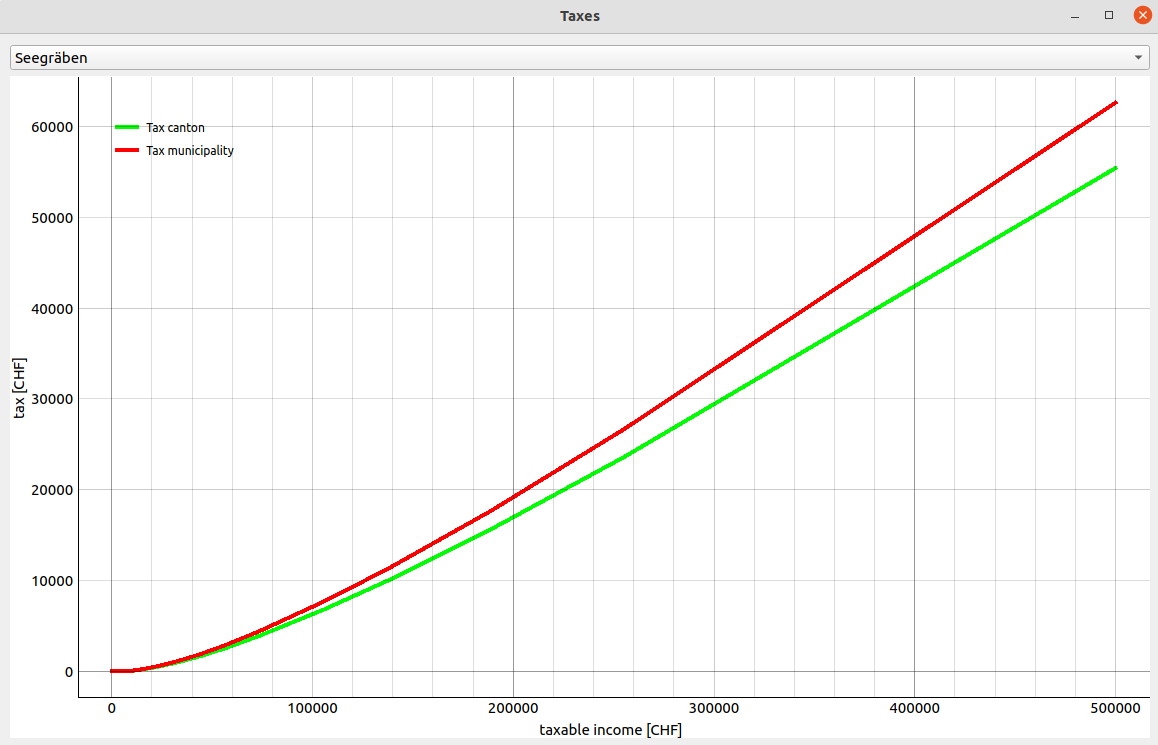
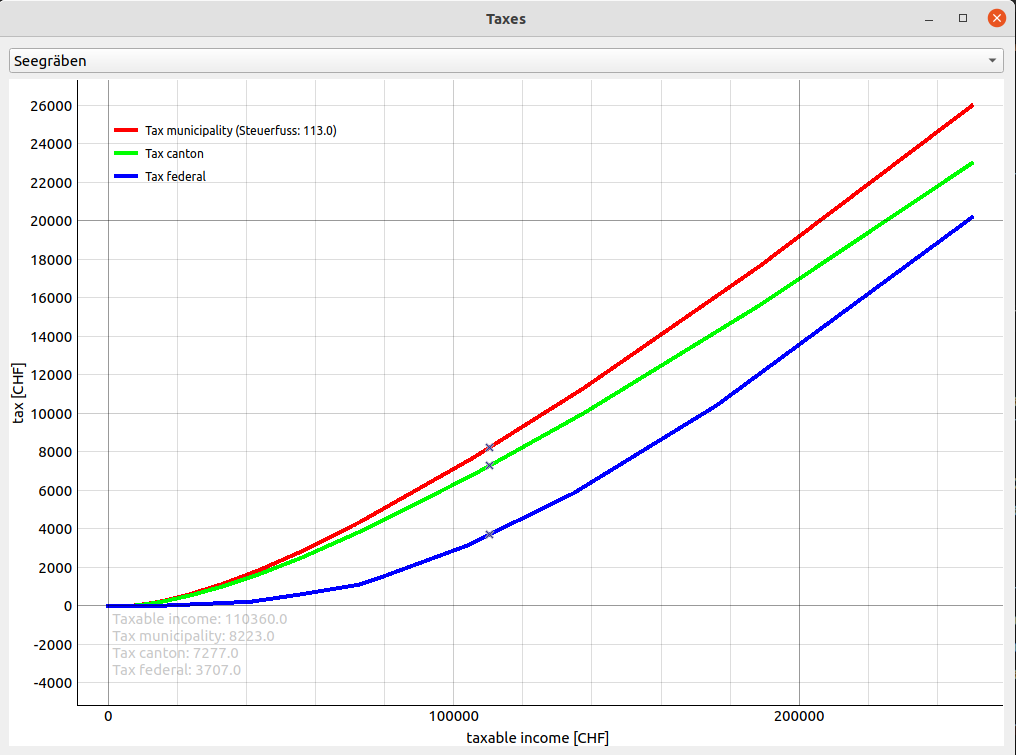
Add labels with numbers

diff --git a/tax/withholding.py b/tax/withholding.py
@@ -38,7 +38,7 @@ class TaxWithholder:
         self.marital_status = marital_status
         self.plot_canton_taxes = None
         self.plot_municipality_taxes = None
-        self.incomes_samples = pd.Series(np.linspace(0, 5 * 1e5, 1000))
+        self.incomes_samples = pd.Series(np.linspace(0, 2.5 * 1e5, 1000))
         self.load_tax_rates()
         self.load_steuerfuss()
         self.taxes_canton = self.compute_taxes(
@@ -93,7 +93,7 @@ class TaxWithholder:
         self.municipality = value
         self.plotting_app.plot_widget.clear()
         self.plotting_app.plot_mouse_points = None
-        self.plotting_app.plot_widget.addItem(self.plotting_app.cursorlabel)
+        self.plotting_app.plot_widget.addItem(self.plotting_app.cursor_label)
         self.plotting_app.plot_widget.plotItem.legend.items = []
         self.steuerfuss_municipality = self.steuerfuss_dict.get(self.municipality)
         self.taxes_municipality = self.taxes_canton * self.steuerfuss_municipality / 100
@@ -126,6 +126,12 @@ class TaxWithholder:
                 y_tax_municipality,
                 y_tax_federal,
             ]
+            self.plotting_app.cursor_label_text = (
+                f"Taxable income: {np.round(x_tax_canton)}\n"
+                + f"Tax municipality: {np.round(y_tax_municipality)}\n"
+                + f"Tax canton: {np.round(y_tax_canton)}\n"
+                + f"Tax federal: {np.round(y_tax_federal)}"
+            )
             self.plotting_app.update_mouse_points()
 
     @staticmethod
@@ -191,8 +197,9 @@ class PlottingApp(QtGui.QWidget):
         self.main_layout.addWidget(self.municipality_cb)
         self.setLayout(self.main_layout)
         self.plot_widget = pg.PlotWidget()
-        self.cursorlabel = pg.TextItem(anchor=(-1, 10))
-        self.cursorlabel.setText("test")
+        self.cursor_label = pg.TextItem(anchor=(0, 0))
+        self.cursor_label_text = "-"
+        self.cursor_label.setText(self.cursor_label_text)
         self.plot_widget.addLegend()
         self.plot_widget.showGrid(x=True, y=True, alpha=0.4)
         self.plot_widget.setLabel("bottom", "taxable income [CHF]")
@@ -201,7 +208,6 @@ class PlottingApp(QtGui.QWidget):
 
         self.cursor = Qt.CrossCursor
         self.plot_widget.setCursor(self.cursor)
-        # self.plot_widget.scene().sigMouseMoved.connect(self.mouse_moved)
         if update_mouse_function is not None:
             self.plot_widget.scene().sigMouseMoved.connect(update_mouse_function)
 
@@ -215,30 +221,7 @@ class PlottingApp(QtGui.QWidget):
                 self.plot_mouse_points.setData(
                     self.mouse_points["x"], self.mouse_points["y"]
                 )
-
-    def mouse_moved(self, evt):
-        # from PyQt5.QtCore import pyqtRemoveInputHook
-        # from pdb import set_trace
-        # pyqtRemoveInputHook()
-        # set_trace()
-        mousePoint = self.plot_widget.plotItem.vb.mapSceneToView(evt)
-        self.mouse_points["x"] = mousePoint.x()
-        self.mouse_points["y"] = mousePoint.y()
-        self.update_mouse_points()
-
-        # print(mousePoint.x(), mousePoint.y())
-        # self.plot_widget.plot([mousePoint.x()],[mousePoint.y()], pen=None, symbol='x')
-        # pos = evt[0]  ## using signal proxy turns original arguments into a tuple
-        # if self.plotWidget.sceneBoundingRect().contains(pos):
-        # mousePoint = self.plotWidget.vb.mapSceneToView(pos)
-        # print('x: {}, y: {}'.format(mousePoint.x(), mousePoint.y()))
-        # index = int(mousePoint.x())
-        # #if index > 0 and index < len(data1):
-        # if index > 0 and index < self.MFmax:
-        #     self.cursorlabel.setText("<span style='font-size: 12pt'>x=%0.1f,   <span style='color: red'>y=%0.1f</span>" % (
-        #     mousePoint.x(), mousePoint.y()))
-        # self.vLine.setPos(mousePoint.x())
-        # self.hLine.setPos(mousePoint.y())
+            self.cursor_label.setText(self.cursor_label_text)
 
 
 def main():
